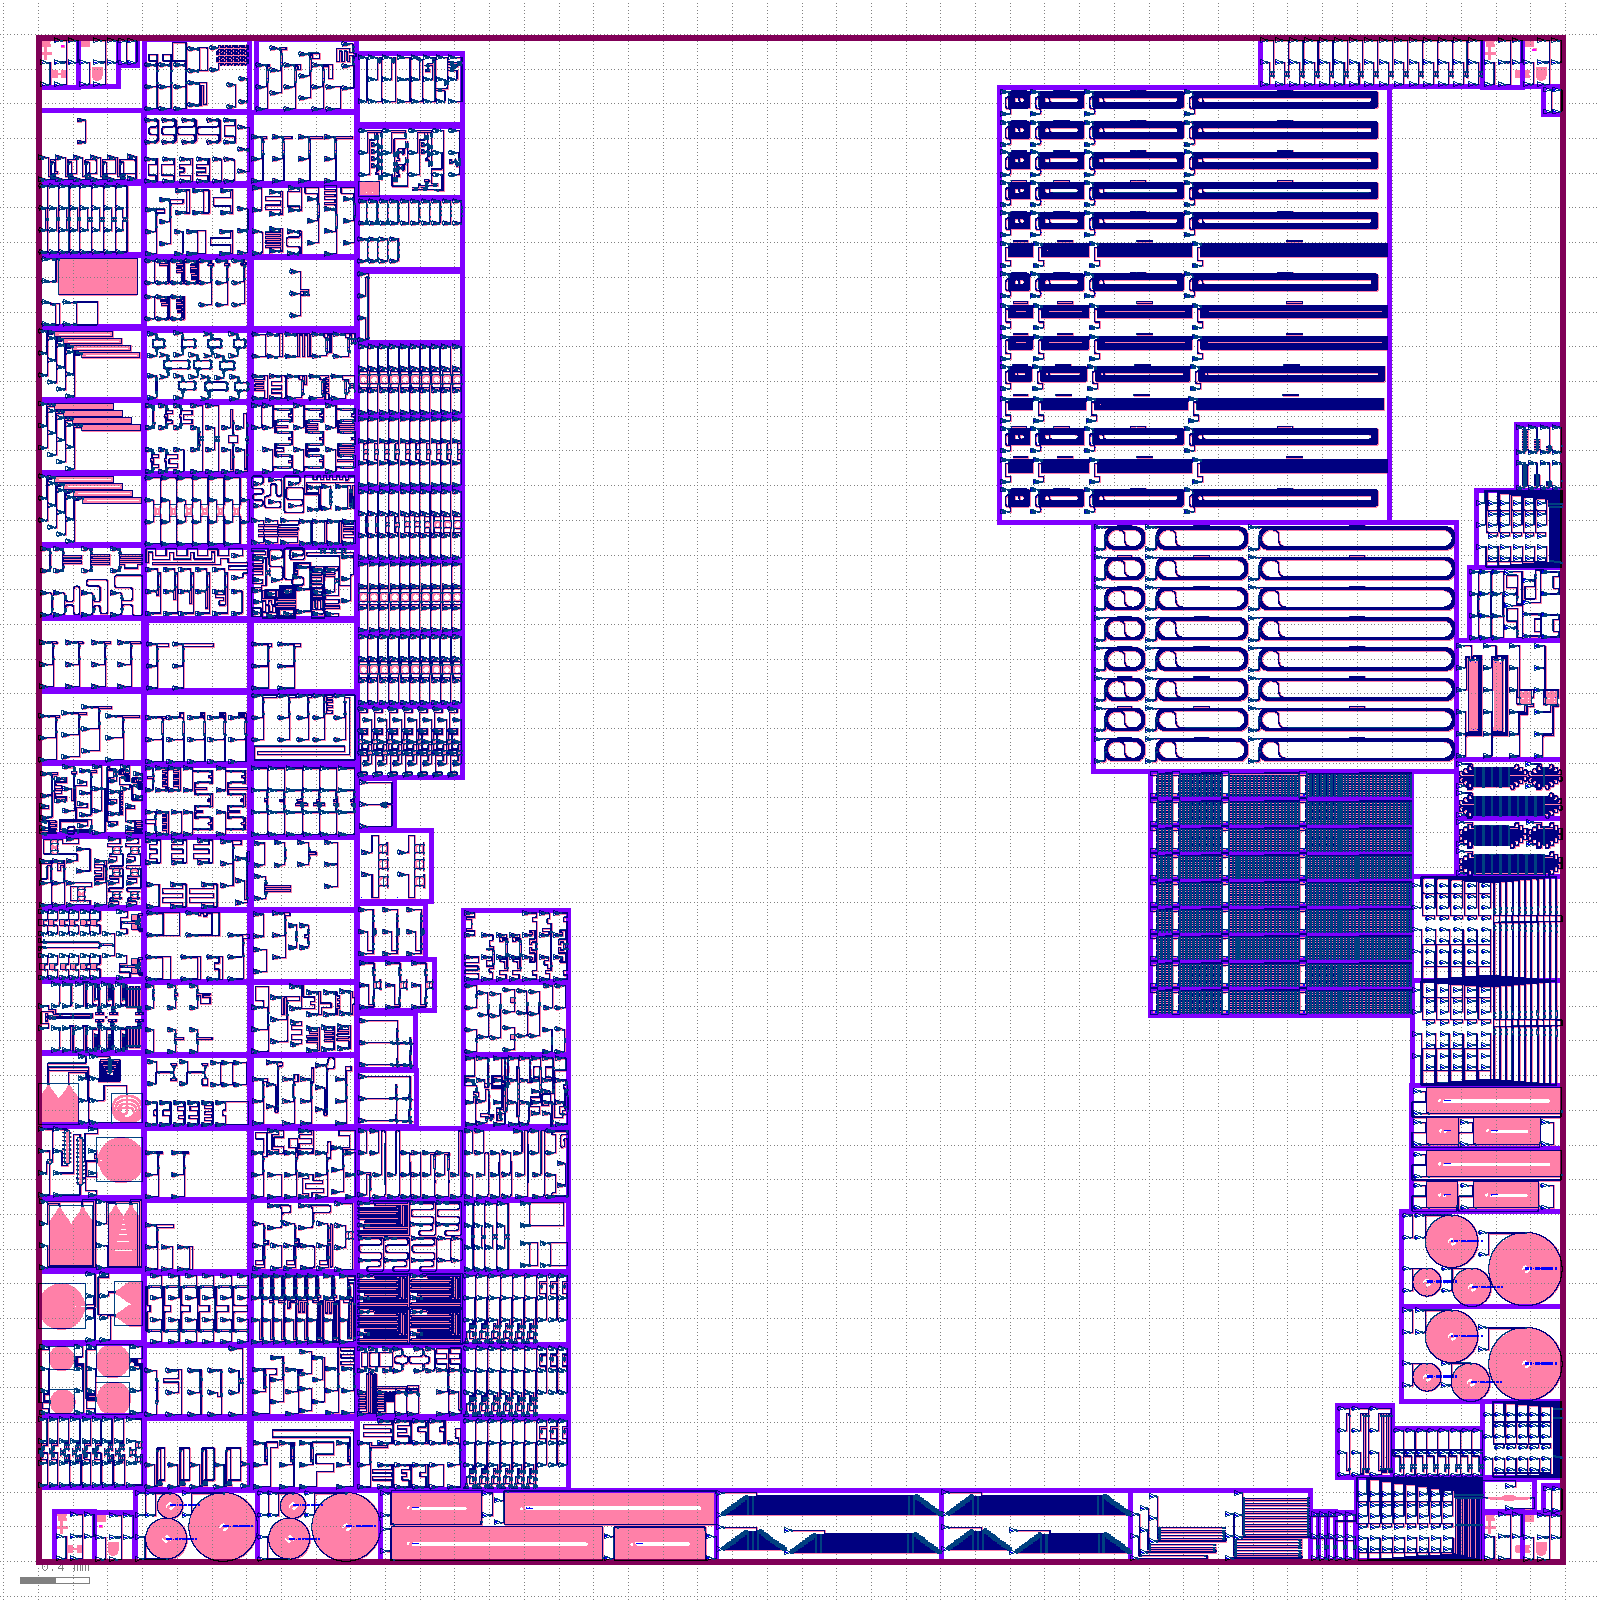
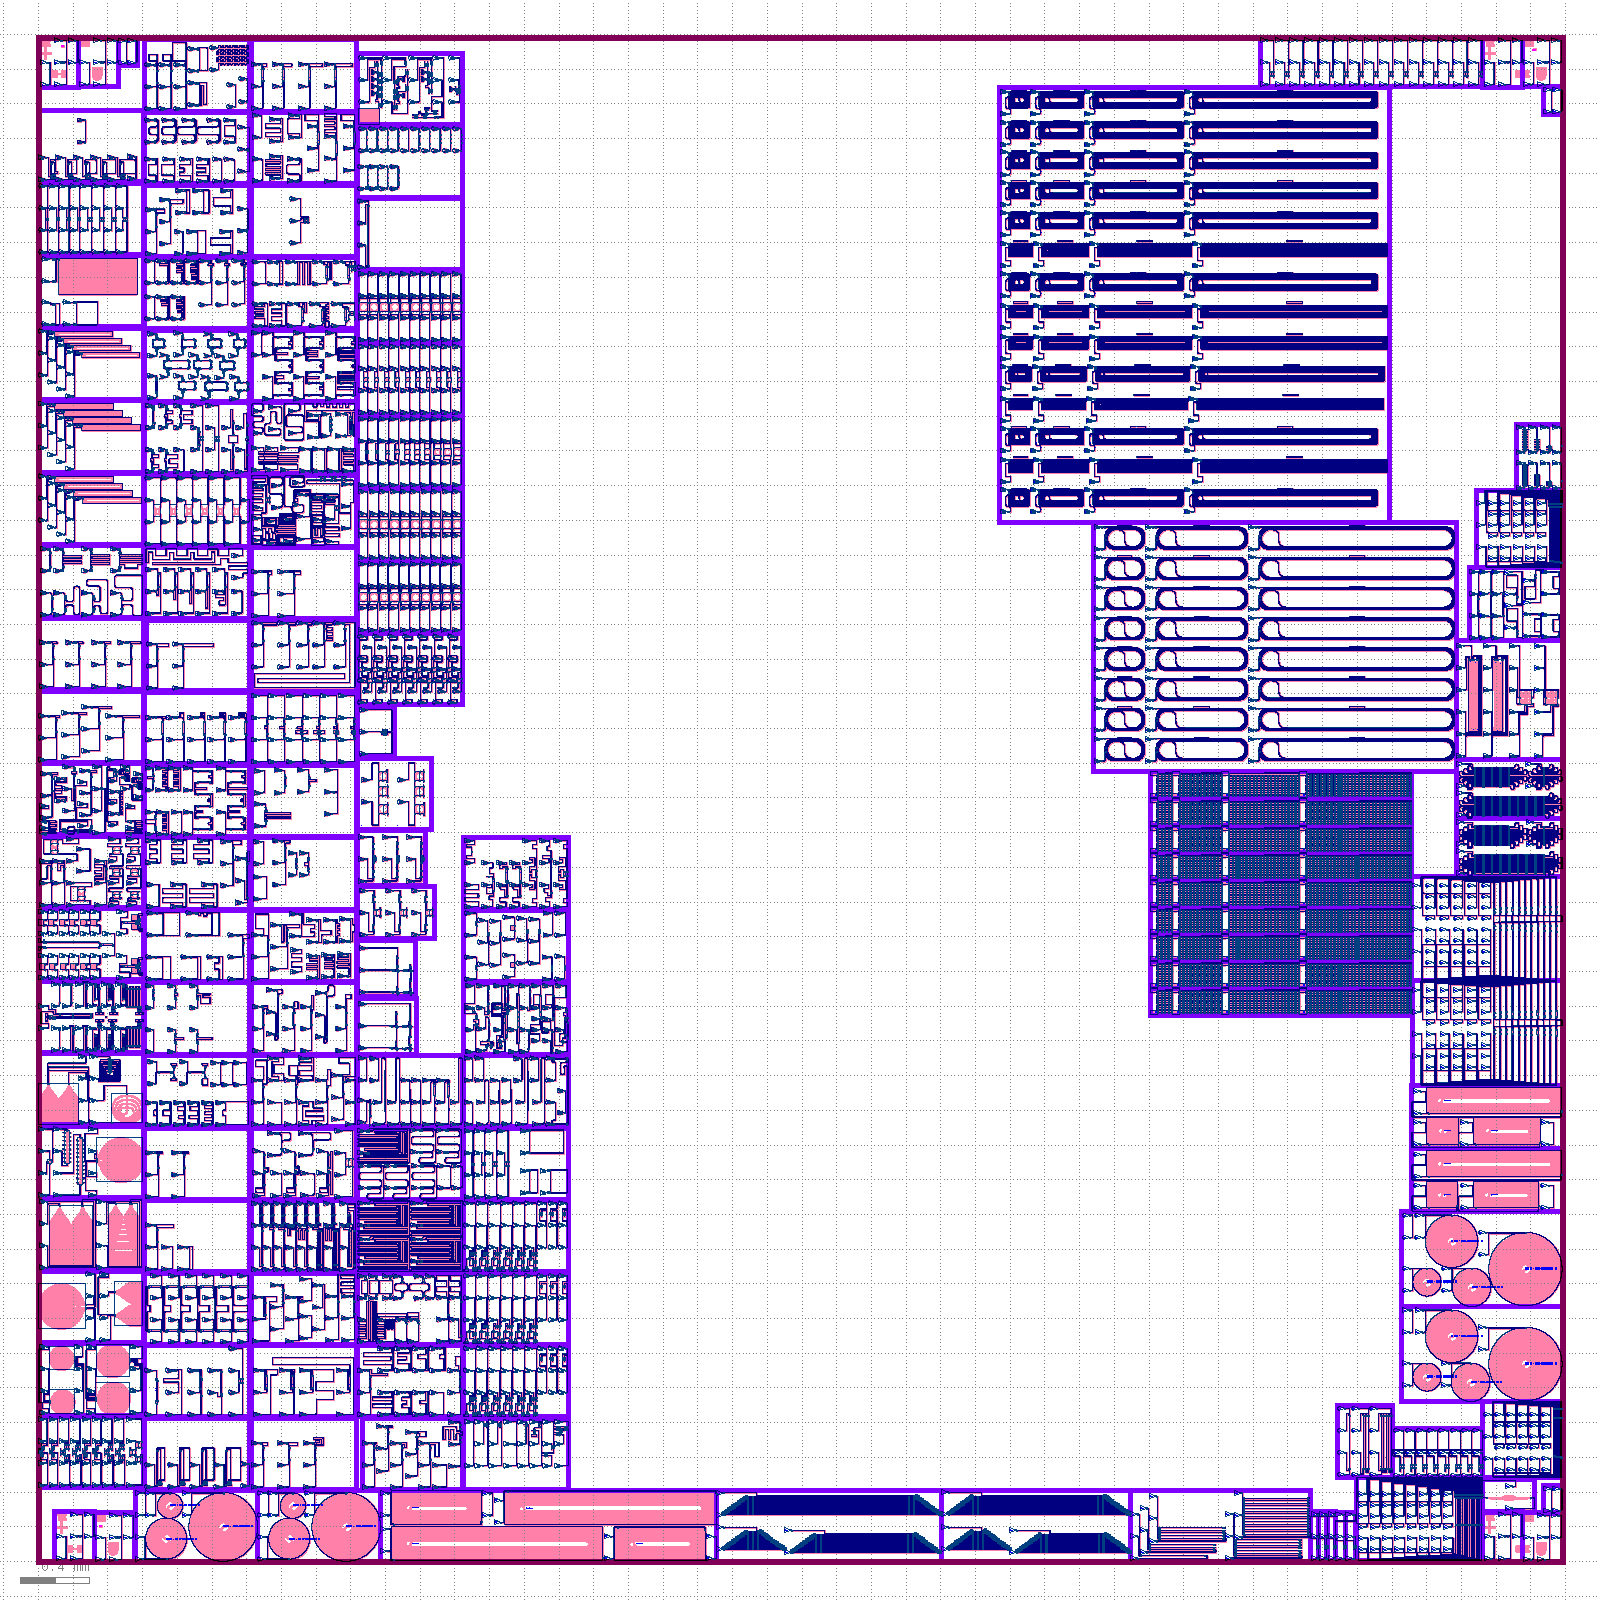
Aggregation layout: https://github.com/SiEPIC/openEBL-2026-05/actions/runs/25939659330/artifacts/7025846981

Changed region(s): [[0.1562, 0.0312, 0.375, 0.9375]]

diff --git a/README.md b/README.md
@@ -91,5 +91,5 @@ Will be added here.
 
 Click on the following link to download the EBeam.oas merged layout file:
 <!-- start-link -->
-https://github.com/SiEPIC/openEBL-2026-05/actions/runs/25939436504/artifacts/7025763603
+https://github.com/SiEPIC/openEBL-2026-05/actions/runs/25939659330/artifacts/7025846981
 <!-- end-link -->